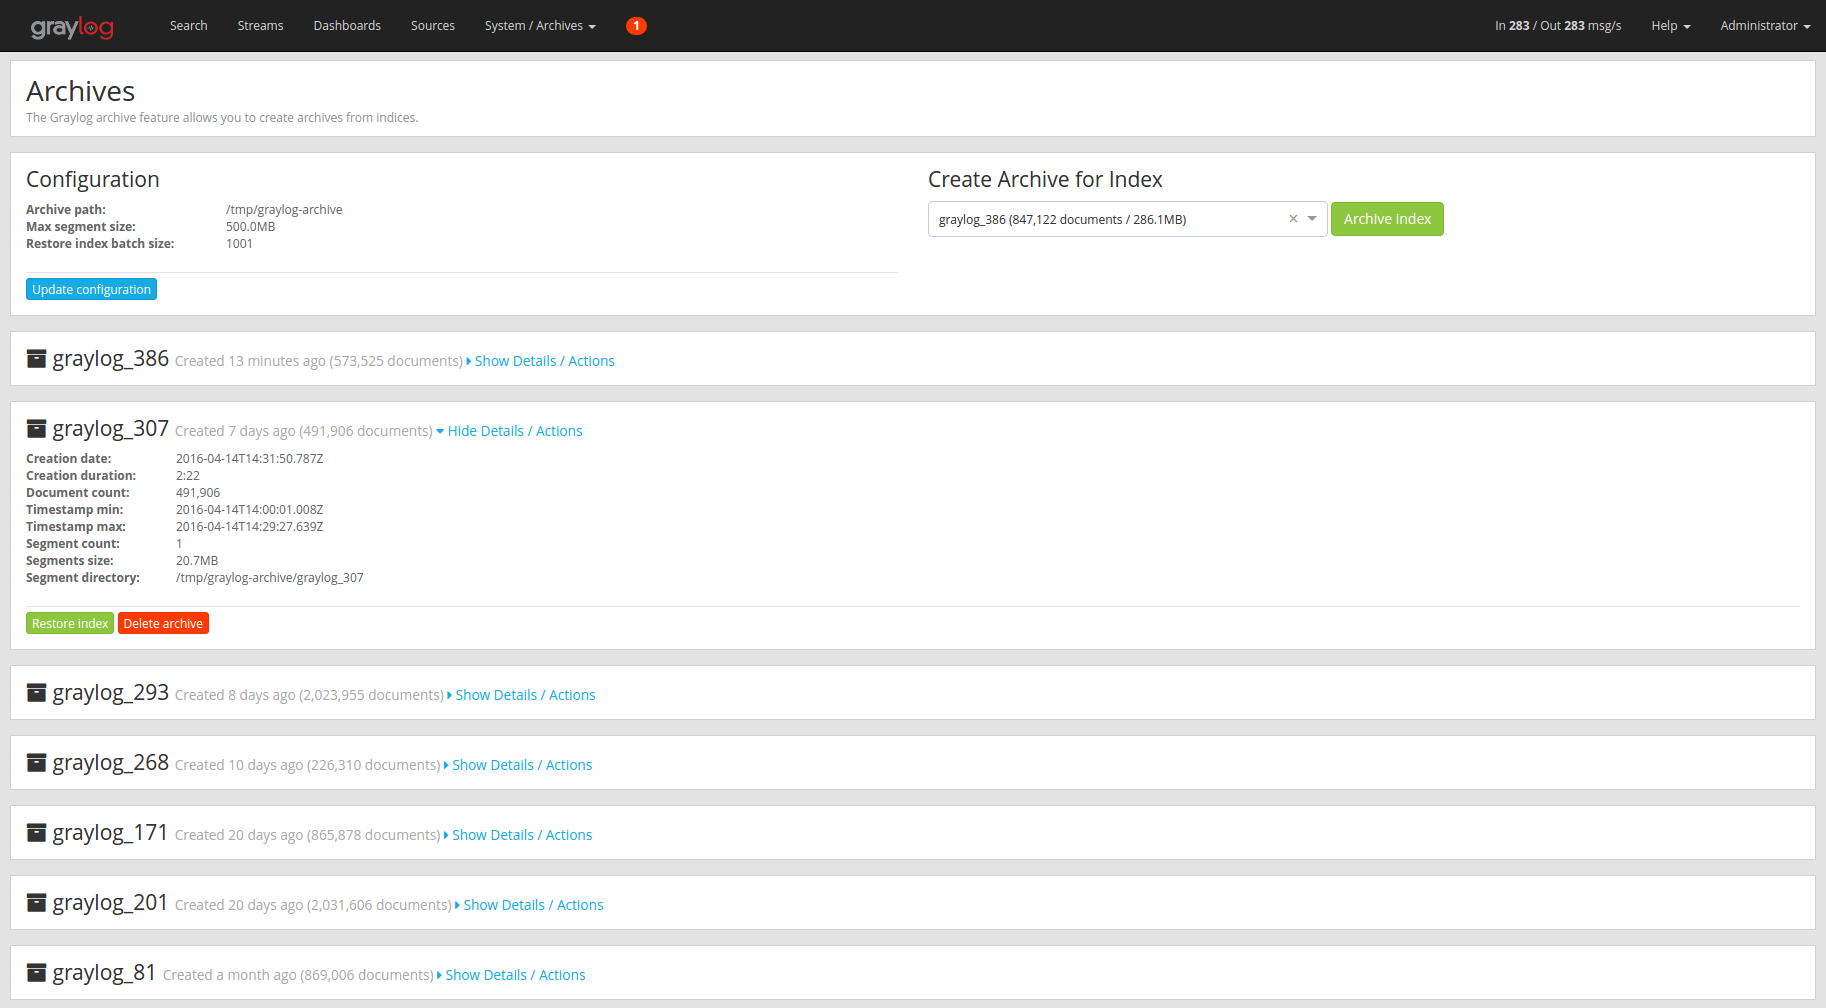
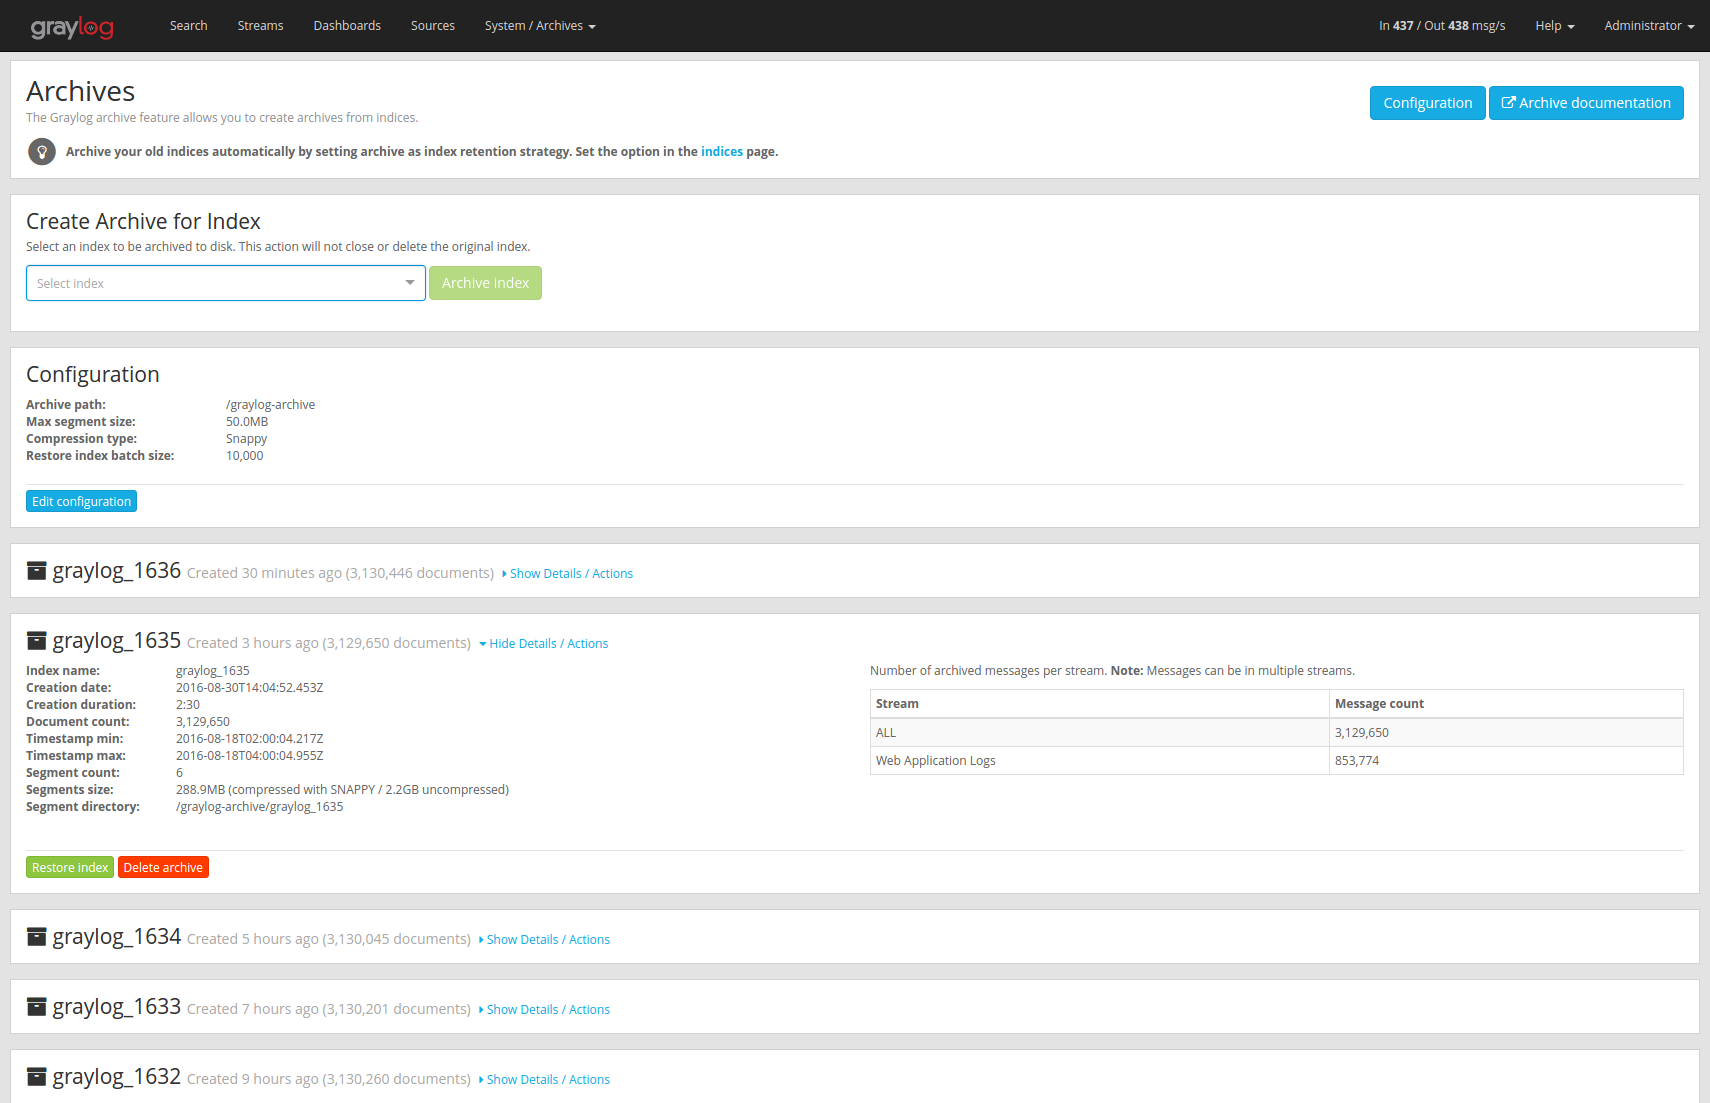
Update archive screenshots and add streams feature

diff --git a/pages/archiving/setup.rst b/pages/archiving/setup.rst
@@ -17,13 +17,10 @@ Configuration
 The archive plugin can be configured via the Graylog web interface and does
 not need any changes in the Graylog server configuration file.
 
-In the web interface menu navigate to "System/Archives" for the configuration.
+In the web interface menu navigate to "System/Archives" and click "Configuration"
+to adjust the configuration.
 
 .. image:: /images/archiving-setup-config.png
-
-The "Configuration" section on the page shows the current configuration values. You can change the configuration by pressing "Update configuration".
-
-.. image:: /images/archiving-setup-config-dialog.png
 
 Archive Options
 ---------------
@@ -44,6 +41,8 @@ There are several configuration options to configure the archive plugin.
       - Compression type that will be used to compress the archives.
     * - Restore index batch size
       - Elasticsearch batch size when restoring archive files.
+    * - Streams to archive
+      - Streams that should be included in the archive.
 
 .. _archive-config-option-archive-path:
 
@@ -134,6 +133,19 @@ processing.
 
 Make sure to tune this **carefully** to avoid any negative impact on your
 message indexing throughput and search speed!
+
+.. _archive-config-option-streams-to-archive:
+
+Streams To Archive
+^^^^^^^^^^^^^^^^^^
+
+This option can be used to select which streams should be included in the
+archive. With this you are able to archive only your important data instead
+of archiving everything that is arriving in Graylog.
+
+.. note:: New streams will be archived automatically. If you create a new stream
+          and don't want it to be archived, you have to disable it in this
+          configuration dialog.
 
 .. _archive-config-index-retention:
 
